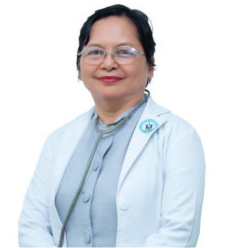
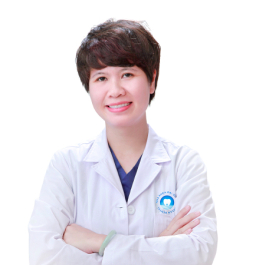
Fix booking function with new db

diff --git a/frontend/src/components/SelectDoctor.js b/frontend/src/components/SelectDoctor.js
@@ -14,13 +14,42 @@ const SelectDoctor = () => {
     const [searchName, setSearchName] = useState('');
     const [specialties, setSpecialties] = useState([]);
     const [searchSpecialty, setSearchSpecialty] = useState('');
+    const [searchLevel, setSearchLevel] = useState('');
+    const [levels, setLevels] = useState([]);
     const navigate = useNavigate();
 
     useEffect(() => {
         const fetchDoctors = async () => {
             try {
                 const doctorResponse = await axios.get('/api/get-all-doctors');
-                setDoctors(doctorResponse.data.data);
+                const fetchedDoctors = doctorResponse.data.data;
+
+                // Tạo bản sao và thay đổi aca_rank
+                const updatedDoctors = fetchedDoctors.map((doctor) => {
+                    if ((doctor.deg === 'GS' || doctor.deg === 'PGS') && doctor.aca_rank) {
+                        doctor.aca_rank = 'TS';
+                        doctor.academic_rank = 'Tiến sĩ';
+                    }
+                    if (doctor.degree && doctor.academic_rank) {
+                        doctor.level = `${doctor.degree} ${doctor.academic_rank}`;
+                    } else if (doctor.degree) {
+                        doctor.level = doctor.degree;
+                    } else if (doctor.academic_rank) {
+                        doctor.level = doctor.academic_rank;
+                    }
+
+                    // Kiểm tra xem level đã có trong mảng levels chưa
+                    setLevels((prevLevels) => {
+                        if (!prevLevels.includes(doctor.level)) {
+                            return [...prevLevels, doctor.level]; // Nếu chưa có, thêm mới
+                        }
+                        return prevLevels; // Nếu có rồi, không thêm
+                    });
+
+                    return doctor;
+                });
+
+                setDoctors(updatedDoctors); // Cập nhật state với bản sao đã thay đổi
             } catch (error) {
                 console.error('There was an error fetching the doctor data!', error);
             }
@@ -39,6 +68,7 @@ const SelectDoctor = () => {
         fetchSpecialties();
     }, []);
 
+
     let renderDoctorCards = () => {
         let cards = [];
         for (let i = 0; i < filteredDoctors.length; i++) {
@@ -48,7 +78,7 @@ const SelectDoctor = () => {
                     <div className='doctor-card-header'>
                         <img className='doctor-avatar' src={doctor.img} alt="doctor-avatar" />
                         <div className="doctor-info">
-                            <div className="doctor-name">{doctor.name}</div>
+                            <div className="doctor-name">{doctor.deg} {doctor.aca_rank} {doctor.name}</div>
                             <div className="doctor-details">
                                 {doctor.specialty}
                             </div>
@@ -57,7 +87,7 @@ const SelectDoctor = () => {
                     </div>
                     <div className='doctor-price'>
                         <div className='price-text'>Giá khám: </div>
-                        <div className='price-number'>{doctor.price_service} VND</div>
+                        <div className='price-number'>{formatCurrency(doctor.price_service)}</div>
                     </div>
                 </div>
             );
@@ -72,9 +102,14 @@ const SelectDoctor = () => {
     const filteredDoctors = doctors.filter((doctor) => {
         return (
             doctor.name.toLowerCase().includes(searchName.toLowerCase()) &&
-            doctor.specialty.toLowerCase().includes(searchSpecialty.toLowerCase())
+            doctor.specialty.toLowerCase().includes(searchSpecialty.toLowerCase()) &&
+            (searchLevel === '' || doctor.level.toLowerCase().includes(searchLevel.toLowerCase()))
         );
     });
+
+    const formatCurrency = (value) => {
+        return new Intl.NumberFormat('vi-VN', { style: 'currency', currency: 'VND' }).format(value).replace('₫', 'VNĐ');
+    };
 
     return (
         <div className="registration-page">
@@ -112,6 +147,17 @@ const SelectDoctor = () => {
                         {specialties.map((specialty) => (
                             <option key={specialty.id} value={specialty.name}>
                                 {specialty.name}
+                            </option>
+                        ))}
+                    </select>
+                    <select
+                        value={searchLevel}
+                        onChange={(e) => setSearchLevel(e.target.value)}
+                    >
+                        <option value="">Tất cả học hàm học vị</option>
+                        {levels.map((level) => (
+                            <option key={level} value={level}>
+                                {level}
                             </option>
                         ))}
                     </select>

diff --git a/frontend/src/components/SelectDate.js b/frontend/src/components/SelectDate.js
@@ -71,6 +71,7 @@ function SelectDate() {
     let navigate = useNavigate();
     let patient = location.state?.patient;
     let doctor = location.state?.doctor;
+    let [adjustedPrice, setAdjustedPrice] = useState(doctor?.price_service);
 
     let [weeks, setWeeks] = useState([]); // Danh sách các tuần
     let [currentWeek, setCurrentWeek] = useState(0); // Tuần hiện tại
@@ -93,6 +94,7 @@ function SelectDate() {
                     patient,
                     doctor,
                     appointment: {
+                        price: adjustedPrice,   // Giá khám
                         date: selectedDate.date, // Ngày (dd/mm/yyyy)
                         day: selectedDate.day,   // Thứ
                         time: selectedTime,      // Giờ
@@ -114,6 +116,21 @@ function SelectDate() {
 
     let toggleDateVisibility = () => {
         setIsDateVisible((prev) => !prev); // Chuyển đổi trạng thái hiển thị lịch
+    };
+
+    let formatCurrency = (value) => {
+        return new Intl.NumberFormat('vi-VN', { style: 'currency', currency: 'VND' }).format(value).replace('₫', 'VNĐ');
+    };
+
+    let handleDateSelect = (date) => {
+        setSelectedDate({ date: date.date, day: date.day });
+
+        // Kiểm tra nếu ngày là thứ 7 hoặc CN
+        if (date.day === 'Thứ 7' || date.day === 'CN') {
+            setAdjustedPrice(Math.round(doctor?.price_service * 1.5)); // Cộng thêm 50%
+        } else {
+            setAdjustedPrice(doctor?.price_service); // Giữ nguyên giá
+        }
     };
 
     return (
@@ -150,7 +167,7 @@ function SelectDate() {
                     <FontAwesomeIcon className="specialty-icon" icon={faNotesMedical} />
                     <div className='specialty'>
                         <div className="specialty-name">{doctor?.specialty}</div>
-                        <div className="specialty-price">{doctor?.price_service} VND</div>
+                        <div className="specialty-price">{formatCurrency(adjustedPrice)}</div>
                     </div>
                     <FontAwesomeIcon className="specialty-select" icon={faChevronRight} />
                 </div>
@@ -166,29 +183,29 @@ function SelectDate() {
                             <FontAwesomeIcon icon={faChevronLeft} />
                         </button>
                         {weeks[currentWeek]?.map((date) => {
-                            // Tạo đối tượng Date từ date.date (chỉ có ngày-tháng) và thêm năm hiện tại
                             let currentYear = new Date().getFullYear();
                             let dateParts = date.date.split('/');
-                            let selectedDate = new Date(`${currentYear}/${dateParts[1]}/${dateParts[0]}`);
-                            selectedDate.setHours(0, 0, 0, 0);
+                            let selectedDateObj = new Date(`${currentYear}/${dateParts[1]}/${dateParts[0]}`);
+                            selectedDateObj.setHours(0, 0, 0, 0);
                             let currentDate = new Date();
                             currentDate.setHours(0, 0, 0, 0);
 
-                            let isPastDate = selectedDate < currentDate;
+                            let isPastDate = selectedDateObj < currentDate;
                             let isAvailable = date.slots.length > 0;
                             let isNotAvailable = isPastDate || !isAvailable;
 
                             return (
                                 <div
                                     key={date.date}
-                                    className={`date-card ${selectedDate.getTime() === new Date(date.date).getTime() ? 'selected' : ''} ${isNotAvailable ? 'not-available' : ''}`}
-                                    onClick={!isNotAvailable ? () => setSelectedDate({ date: date.date, day: date.day }) : undefined}
+                                    className={`date-card ${selectedDate?.date === date.date ? 'selected' : ''} ${isNotAvailable ? 'not-available' : ''}`}
+                                    onClick={!isNotAvailable ? () => handleDateSelect(date) : undefined}
                                 >
                                     <div className="date-day">{date.day}</div>
                                     <div className="date-number">{date.date.slice(0, 5)}</div>
                                 </div>
                             );
                         })}
+
                         <button
                             className="date-navigator"
                             onClick={handleNextWeek}

diff --git a/frontend/src/components/Doctor.js b/frontend/src/components/Doctor.js
@@ -7,12 +7,41 @@ function Doctor() {
     const [specialties, setSpecialties] = useState([]);
     const [searchName, setSearchName] = useState('');
     const [searchSpecialty, setSearchSpecialty] = useState('');
+    const [searchLevel, setSearchLevel] = useState('');
+    const [levels, setLevels] = useState([]);
 
     useEffect(() => {
         const fetchDoctors = async () => {
             try {
                 const doctorResponse = await axios.get('/api/get-all-doctors');
-                setDoctors(doctorResponse.data.data);
+                const fetchedDoctors = doctorResponse.data.data;
+
+                // Tạo bản sao và thay đổi aca_rank
+                const updatedDoctors = fetchedDoctors.map((doctor) => {
+                    if ((doctor.deg === 'GS' || doctor.deg === 'PGS') && doctor.aca_rank) {
+                        doctor.aca_rank = 'TS';
+                        doctor.academic_rank = 'Tiến sĩ';
+                    }
+                    if (doctor.degree && doctor.academic_rank) {
+                        doctor.level = `${doctor.degree} ${doctor.academic_rank}`;
+                    } else if (doctor.degree) {
+                        doctor.level = doctor.degree;
+                    } else if (doctor.academic_rank) {
+                        doctor.level = doctor.academic_rank;
+                    }
+
+                    // Kiểm tra xem level đã có trong mảng levels chưa
+                    setLevels((prevLevels) => {
+                        if (!prevLevels.includes(doctor.level)) {
+                            return [...prevLevels, doctor.level]; // Nếu chưa có, thêm mới
+                        }
+                        return prevLevels; // Nếu có rồi, không thêm
+                    });
+
+                    return doctor;
+                });
+
+                setDoctors(updatedDoctors); // Cập nhật state với bản sao đã thay đổi
             } catch (error) {
                 console.error('There was an error fetching the doctor data!', error);
             }
@@ -31,10 +60,12 @@ function Doctor() {
         fetchSpecialties();
     }, []);
 
+
     const filteredDoctors = doctors.filter((doctor) => {
         return (
             doctor.name.toLowerCase().includes(searchName.toLowerCase()) &&
-            doctor.specialty.toLowerCase().includes(searchSpecialty.toLowerCase())
+            doctor.specialty.toLowerCase().includes(searchSpecialty.toLowerCase()) &&
+            (searchLevel === '' || doctor.level.toLowerCase().includes(searchLevel.toLowerCase()))
         );
     });
 
@@ -60,6 +91,17 @@ function Doctor() {
                         </option>
                     ))}
                 </select>
+                <select
+                    value={searchLevel}
+                    onChange={(e) => setSearchLevel(e.target.value)}
+                >
+                    <option value="">Tất cả học hàm học vị</option>
+                    {levels.map((level) => (
+                        <option key={level} value={level}>
+                            {level}
+                        </option>
+                    ))}
+                </select>
             </div>
 
             <div className="doctor-list">
@@ -68,7 +110,7 @@ function Doctor() {
                         <div key={doctor.id} className="doctor-card">
                             <img src={doctor.img} alt={doctor.name} className="doctor-image" />
                             <div className="doctor-info">
-                                <h3 className="doctor-name">{doctor.level} {doctor.name}</h3>
+                                <h3 className="doctor-name">{doctor.deg} {doctor.aca_rank} {doctor.name}</h3>
                                 <p className="doctor-specialty">{doctor.specialty}</p>
                                 <button className="detail-button">Xem chi tiết</button>
                             </div>

diff --git a/backend/src/services/doctorService.js b/backend/src/services/doctorService.js
@@ -9,7 +9,29 @@ let handleAllDoctors = async () => {
                     let specialty = await db.Specialty.findOne({
                         where: { id: doctors[i].specialty_id }
                     });
+                    let degree = await db.Degree.findOne({
+                        where: { id: doctors[i].degree_id }
+                    });
+                    let academicRank = await db.AcademicRank.findOne({
+                        where: { id: doctors[i].academic_rank_id }
+                    });
                     doctors[i].setDataValue('specialty', specialty.name);
+                    if (!degree) {
+                        doctors[i].setDataValue('degree', null);
+                        doctors[i].setDataValue('deg', null);
+                    } else {
+                        doctors[i].setDataValue('degree', degree.name);
+                        doctors[i].setDataValue('deg', degree.abbreviation);
+                    }
+                    if (!academicRank) {
+                        doctors[i].setDataValue('academic_rank', null);
+                        doctors[i].setDataValue('aca_rank', null);
+                    } else {
+                        doctors[i].setDataValue('academic_rank', academicRank.name);
+                        doctors[i].setDataValue('aca_rank', academicRank.abbreviation);
+
+                    }
+
                 }
                 resolve({
                     errCode: 0,

diff --git a/backend/src/seeders/20241122183534-seed-doctors.js b/backend/src/seeders/20241122183534-seed-doctors.js
@@ -32,8 +32,8 @@ module.exports = {
       { name: 'Nguyễn Chí Thành', specialty_id: 5, degree_id: null, academic_rank_id: 5, img: '/dimages/bs-nguyen-chi-thanh.jpg', price_service: 300000, createdAt: new Date(), updatedAt: new Date() },
 
       // Chuyên khoa 6: Hô hấp - Phổi
-      { name: 'Phan Thị Hương Liên', specialty_id: 6, degree_id: null, academic_rank_id: 3, img: '/dimages/bs-nguyen-chi-thanh.jpg', price_service: 200000, createdAt: new Date(), updatedAt: new Date() },
-      { name: 'Phan Thị Hương Liên', specialty_id: 6, degree_id: null, academic_rank_id: 3, img: '/dimages/bs-nguyen-chi-thanh.jpg', price_service: 200000, createdAt: new Date(), updatedAt: new Date() },
+      { name: 'Hoàng Chân Phương', specialty_id: 6, degree_id: null, academic_rank_id: 3, img: '/dimages/bs-hoang-chan-phuong.jpg', price_service: 200000, createdAt: new Date(), updatedAt: new Date() },
+      { name: 'Dương Anh Phượng', specialty_id: 6, degree_id: null, academic_rank_id: 3, img: '/dimages/bs-duong-anh-phuong.jpg', price_service: 200000, createdAt: new Date(), updatedAt: new Date() },
 
       // Chuyên khoa 7: Mắt
       { name: 'Lê Thị Hồng Nhung', specialty_id: 7, degree_id: null, academic_rank_id: 4, img: '/dimages/bs-le-thi-hong-nhung.jpg', price_service: 300000, createdAt: new Date(), updatedAt: new Date() },

diff --git a/frontend/src/components/ConfirmAppointment.js b/frontend/src/components/ConfirmAppointment.js
@@ -26,7 +26,8 @@ function ConfirmAppointment() {
             date: appointment.date,
             day: appointment.day,
             time: appointment.time,
-            symptom: symptom
+            symptom: symptom,
+            price: appointment.price,
         };
 
         console.log('Request data:', requestData);
@@ -43,6 +44,10 @@ function ConfirmAppointment() {
             .catch(error => {
                 console.error('Lỗi khi đặt lịch hẹn:', error);
             });
+    };
+
+    let formatCurrency = (value) => {
+        return new Intl.NumberFormat('vi-VN', { style: 'currency', currency: 'VND' }).format(value).replace('₫', 'VNĐ');
     };
 
     return (
@@ -87,7 +92,7 @@ function ConfirmAppointment() {
                         <div className="specialty">
                             <div className="specialty-text">Chuyên khoa khám</div>
                             <div className="specialty-name">{doctor?.specialty}</div>
-                            <div className="price">{doctor?.price_service} VND</div>
+                            <div className="price">{formatCurrency(appointment?.price)}</div>
                         </div>
                     </div>
                     <div className="appointment-time">

diff --git a/backend/src/services/appointmentService.js b/backend/src/services/appointmentService.js
@@ -49,6 +49,7 @@ let handleBookAppointment = (data) => {
                 date: data.date,
                 status: 'pending',
                 symptom: data.symptom,
+                price: data.price,
             });
 
             resolve({

diff --git a/frontend/src/components/SelectDoctor.scss b/frontend/src/components/SelectDoctor.scss
@@ -95,7 +95,7 @@
         .search-container {
             display: flex;
             justify-content: center;
-            gap: 20px;
+            gap: 10px;
             margin-bottom: 20px;
 
             input {

diff --git a/frontend/src/components/Doctor.scss b/frontend/src/components/Doctor.scss
@@ -30,7 +30,7 @@
         }
 
         select {
-            width: 300px;
+            width: 250px;
             padding: 10px;
             border: 1px solid #ccc;
             border-radius: 5px;
